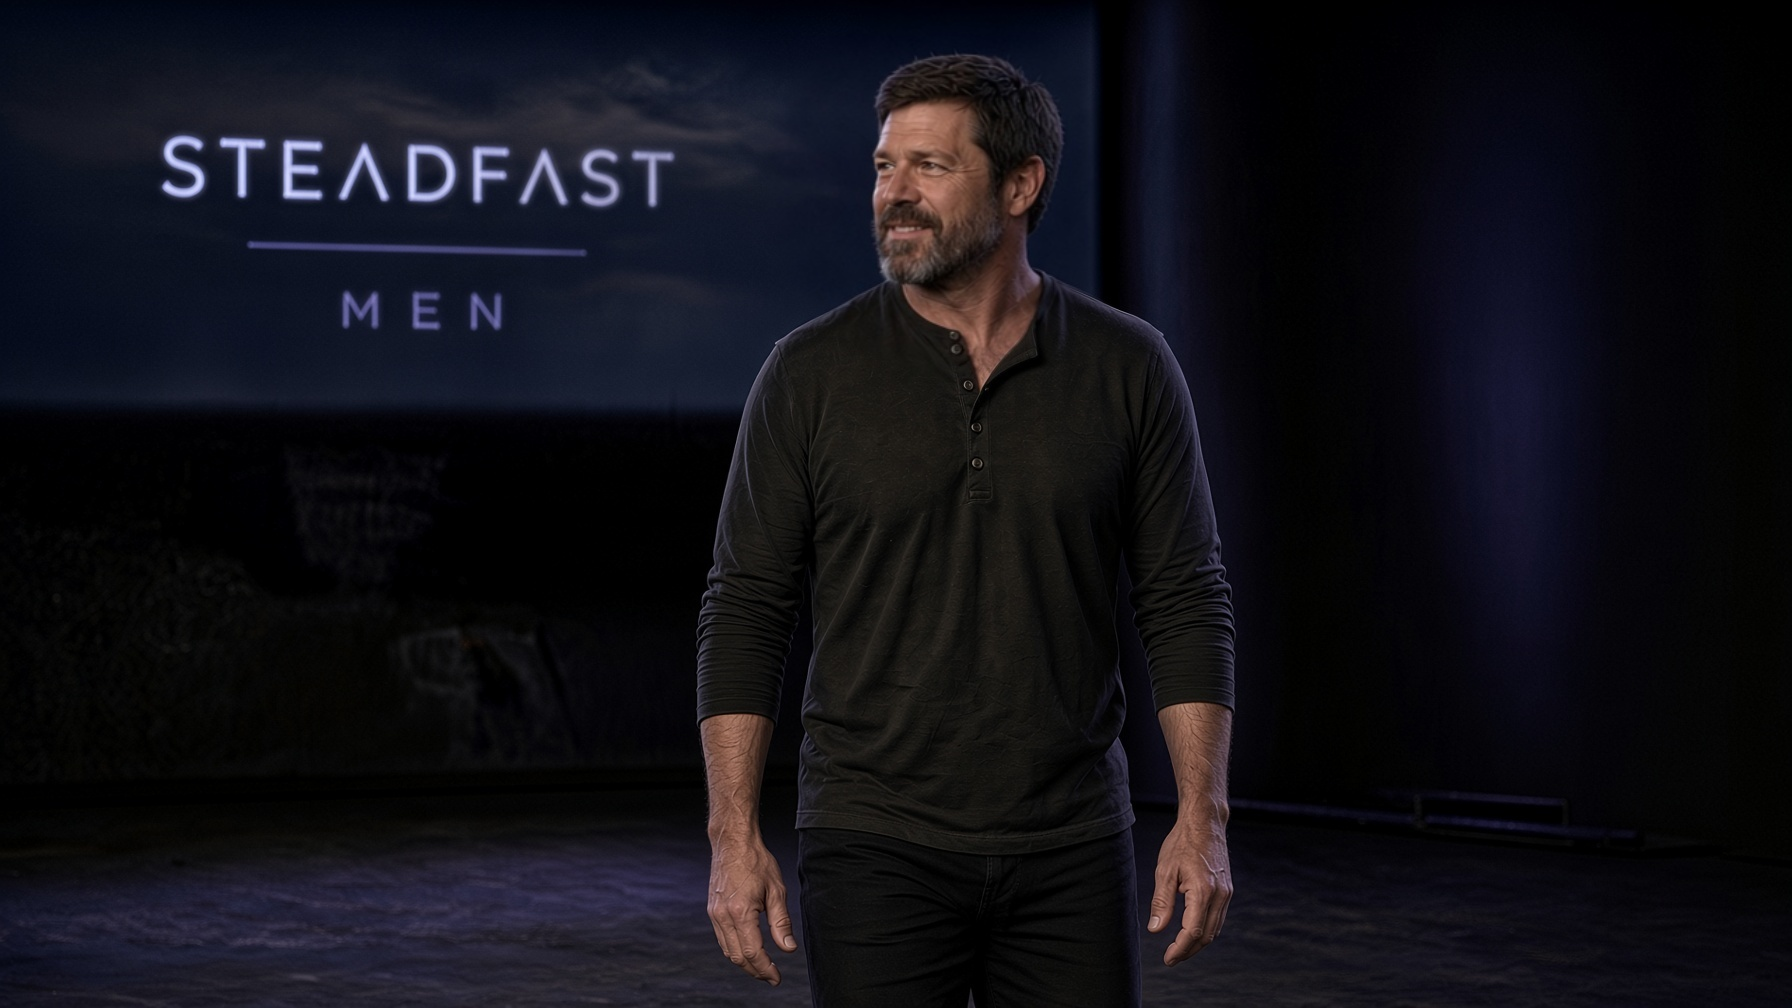
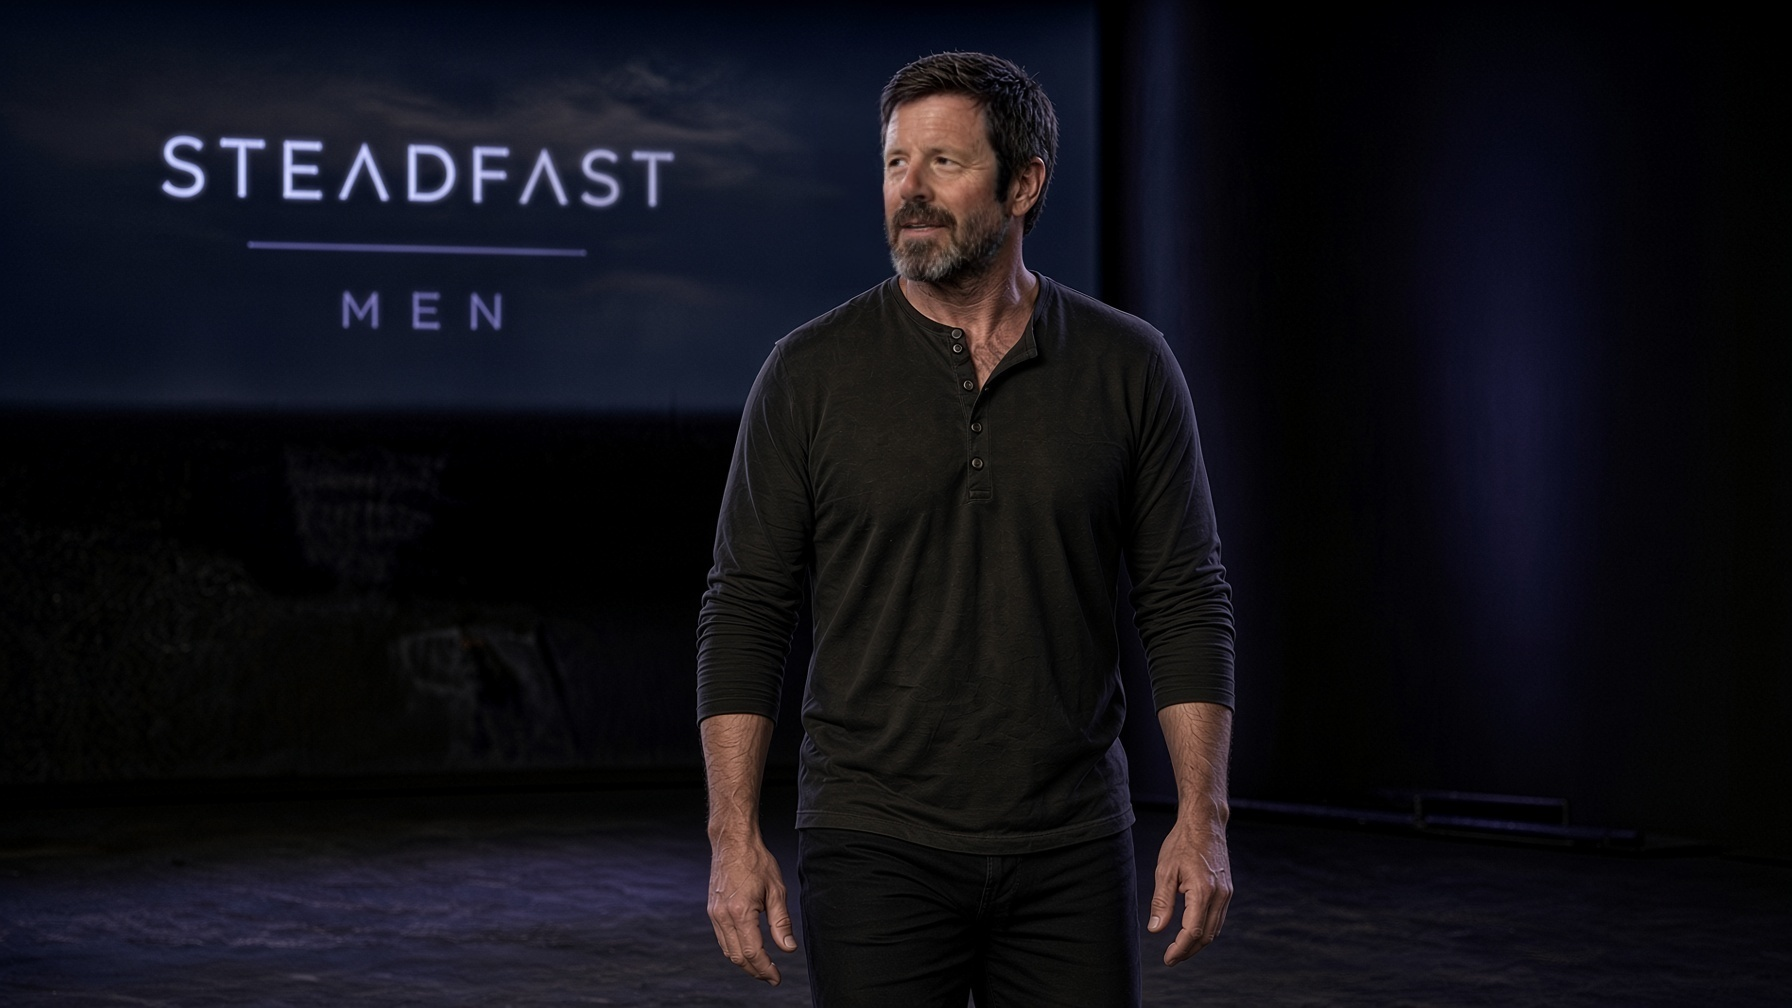
Plates v2 facefix rev2: inswapper face swaps from S3 (neutral mouth), add P08; ArcFace vs S3 0.859-0.923

Changed region(s): [[0.4688, 0.0308, 0.5938, 0.369]]

diff --git a/training-locked/plates-v2-facefix-LOCKED-2026-10-22/README.md b/training-locked/plates-v2-facefix-LOCKED-2026-10-22/README.md
@@ -1,19 +1,29 @@
-# LOCKED: v2 plates, face fix (2026-10-22)
+# LOCKED: v2 plates, face fix (2026-10-22, revised: inswapper)
 
 Locked 2026-10-22 by Aaron Maberry. **No changes without Aaron sign-off.**
 
-Source: `training-locked/plates-v2-LOCKED-2026-10-22/` (P02, P03, P04, P05, P07). The v2 plates had drifted from the canonical Wes face. In each one, only the head was re-edited with grok-imagine-image-2.0, using `training-locked/v9-face-master/` (S3-medcloseup primary, plus S2, S4, S5) as identity references, then pasted onto the original v2 frame. Pose, framing, henley, stage, screen and lighting are unchanged. Working files and the call log are in `artifacts/training/w01-poc/lesson01-v3/` (plates-v2-facefix/, api-requests.md Rounds 7-8).
+**Revision 2 (2026-10-22, ~3:30 PM CT):** The earlier Grok image-edit head fixes were replaced. Aaron found they didn't match the master, and ArcFace scored them only 0.28–0.69 vs S3. Each face here is now a true face swap:
+1. **inswapper_128** with the identity source **S3-medcloseup** from `training-locked/v9-face-master/`. S3 is canonical; plate 69 is not a face reference.
+2. Lab color match to the plate's skin.
+3. GFPGAN 1.4 restoration blended at 0.3.
+4. A local mouth relaxation: the base plate's neutral mouth region is color-matched and feathered back in, at 0.85 (P04 at 0.6), so he reads as engaged and neutral or slightly warm rather than grinning.
+
+Only the face region changes. A pixel diff confirms that nothing outside the face bounding box changed.
+
+Identity = ArcFace (insightface buffalo_l) cosine vs S3. For reference, the S1–S7 masters score 0.878–0.907 vs S3; the bar is ≥ 0.85.
+
+| Plate | File | Swap base | ArcFace vs S3 |
+|---|---|---|---|
+| P02 medium center | P02-med-center-FACEFIX-LOCKED.jpg | v2 original | 0.906 |
+| P03 low stride right | P03-low-stride-right-FACEFIX-LOCKED.jpg | rev-1 facefix plate | 0.923 |
+| P04 profile walk left | P04-profile-walk-left-FACEFIX-LOCKED.jpg | rev-1 facefix plate | 0.859 |
+| P05 medium-wide right | P05-medwide-right-FACEFIX-LOCKED.jpg | rev-1 facefix plate | 0.918 |
+| P07 high walk right | P07-high-walk-right-FACEFIX-LOCKED.jpg | v2 original | 0.874 |
+| P08 MCU right | P08-mcu-right-FACEFIX-LOCKED.jpg | v2 original | 0.881 |
+
+v2 originals: `training-locked/plates-v2-LOCKED-2026-10-22/`. Working files, scripts (`work/id/swap2.py`, `mouth.py`, `score.py`) and final-compare.jpg are in `artifacts/training/w01-poc/lesson01-v3/` (api-requests.md Round 11). Cost: $0 (all local).
 
 **These supersede the v2 originals for all generation.**
 
-| Plate | File |
-|---|---|
-| P02 medium center | P02-med-center-FACEFIX-LOCKED.jpg |
-| P03 low stride right | P03-low-stride-right-FACEFIX-LOCKED.jpg |
-| P04 profile walk left | P04-profile-walk-left-FACEFIX-LOCKED.jpg |
-| P05 medium-wide right | P05-medwide-right-FACEFIX-LOCKED.jpg |
-| P07 high walk right | P07-high-walk-right-FACEFIX-LOCKED.jpg |
-
 - P01 (wide back view, no face visible): keep using the v2 original `plates-v2-LOCKED-2026-10-22/P01-wide-back-LOCKED.jpg`.
 - P06 (over the audience seats): RETIRED. Audience seats are banned; do not use.
-- P08 (MCU right): face fix still in progress, pending approval; not locked yet.
